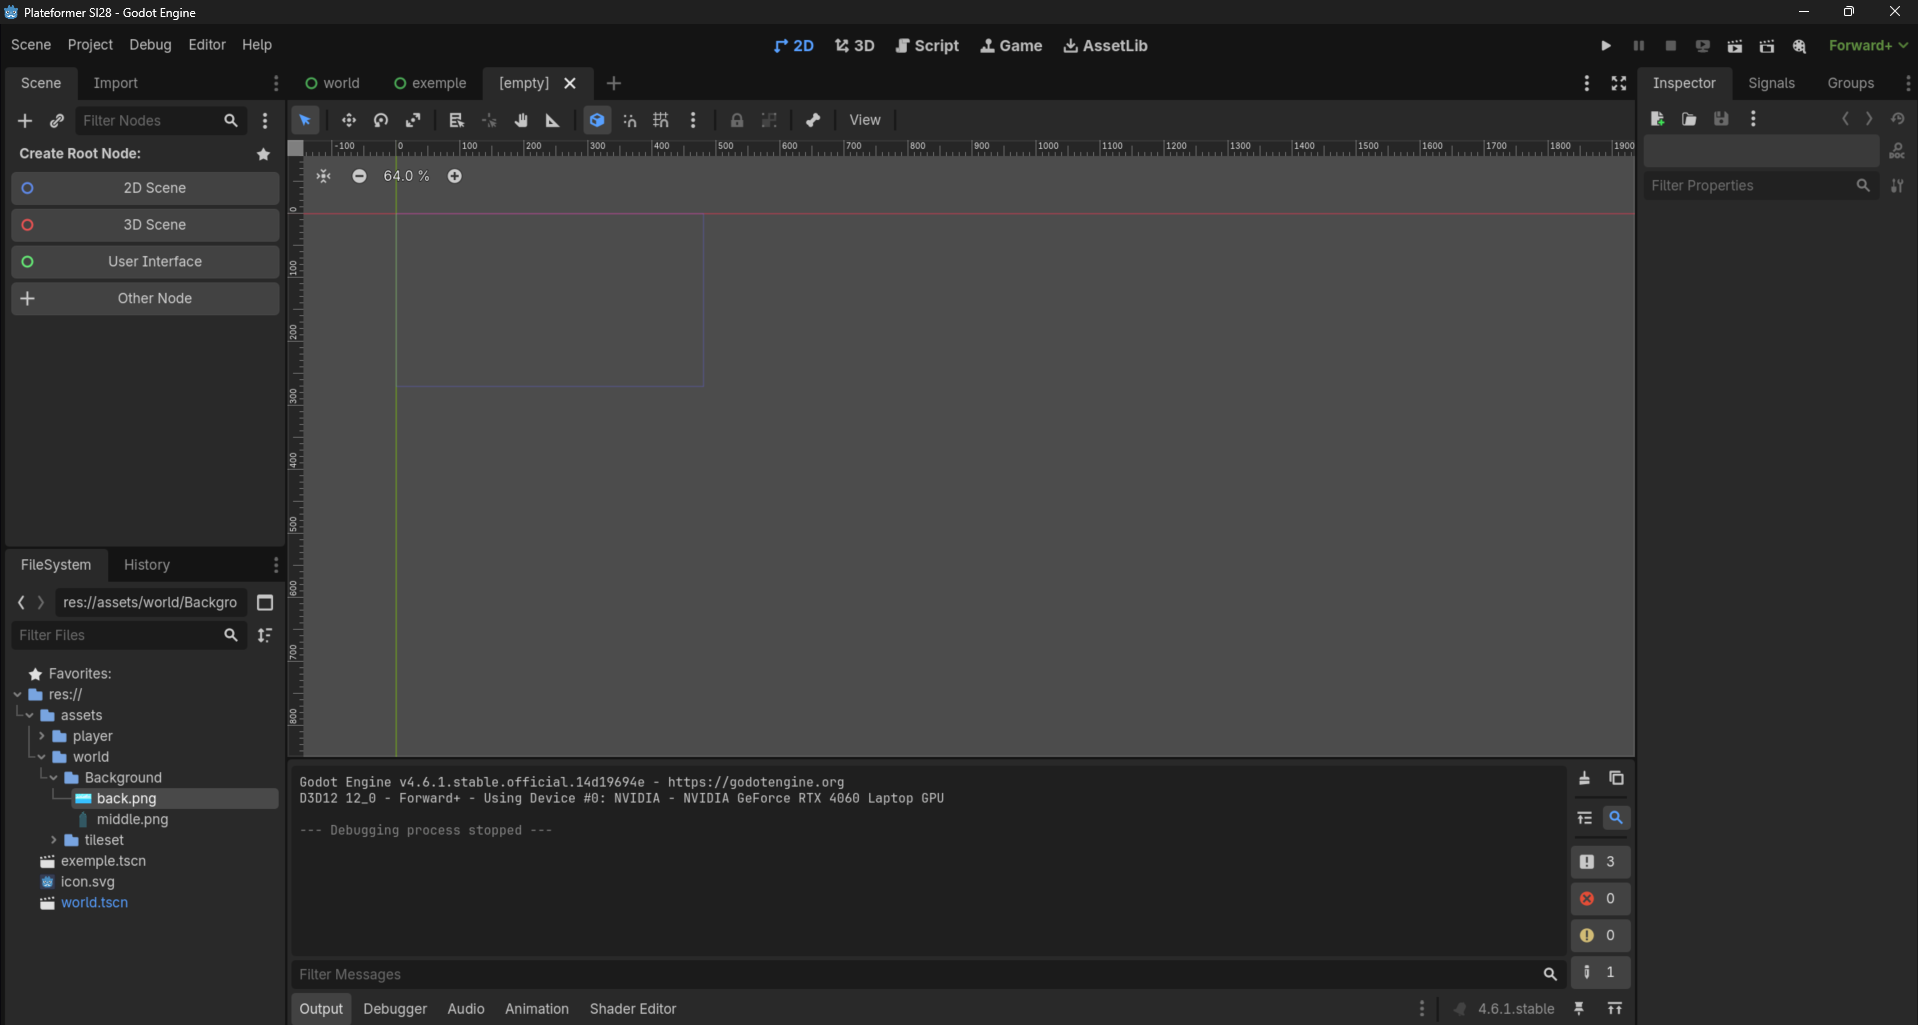
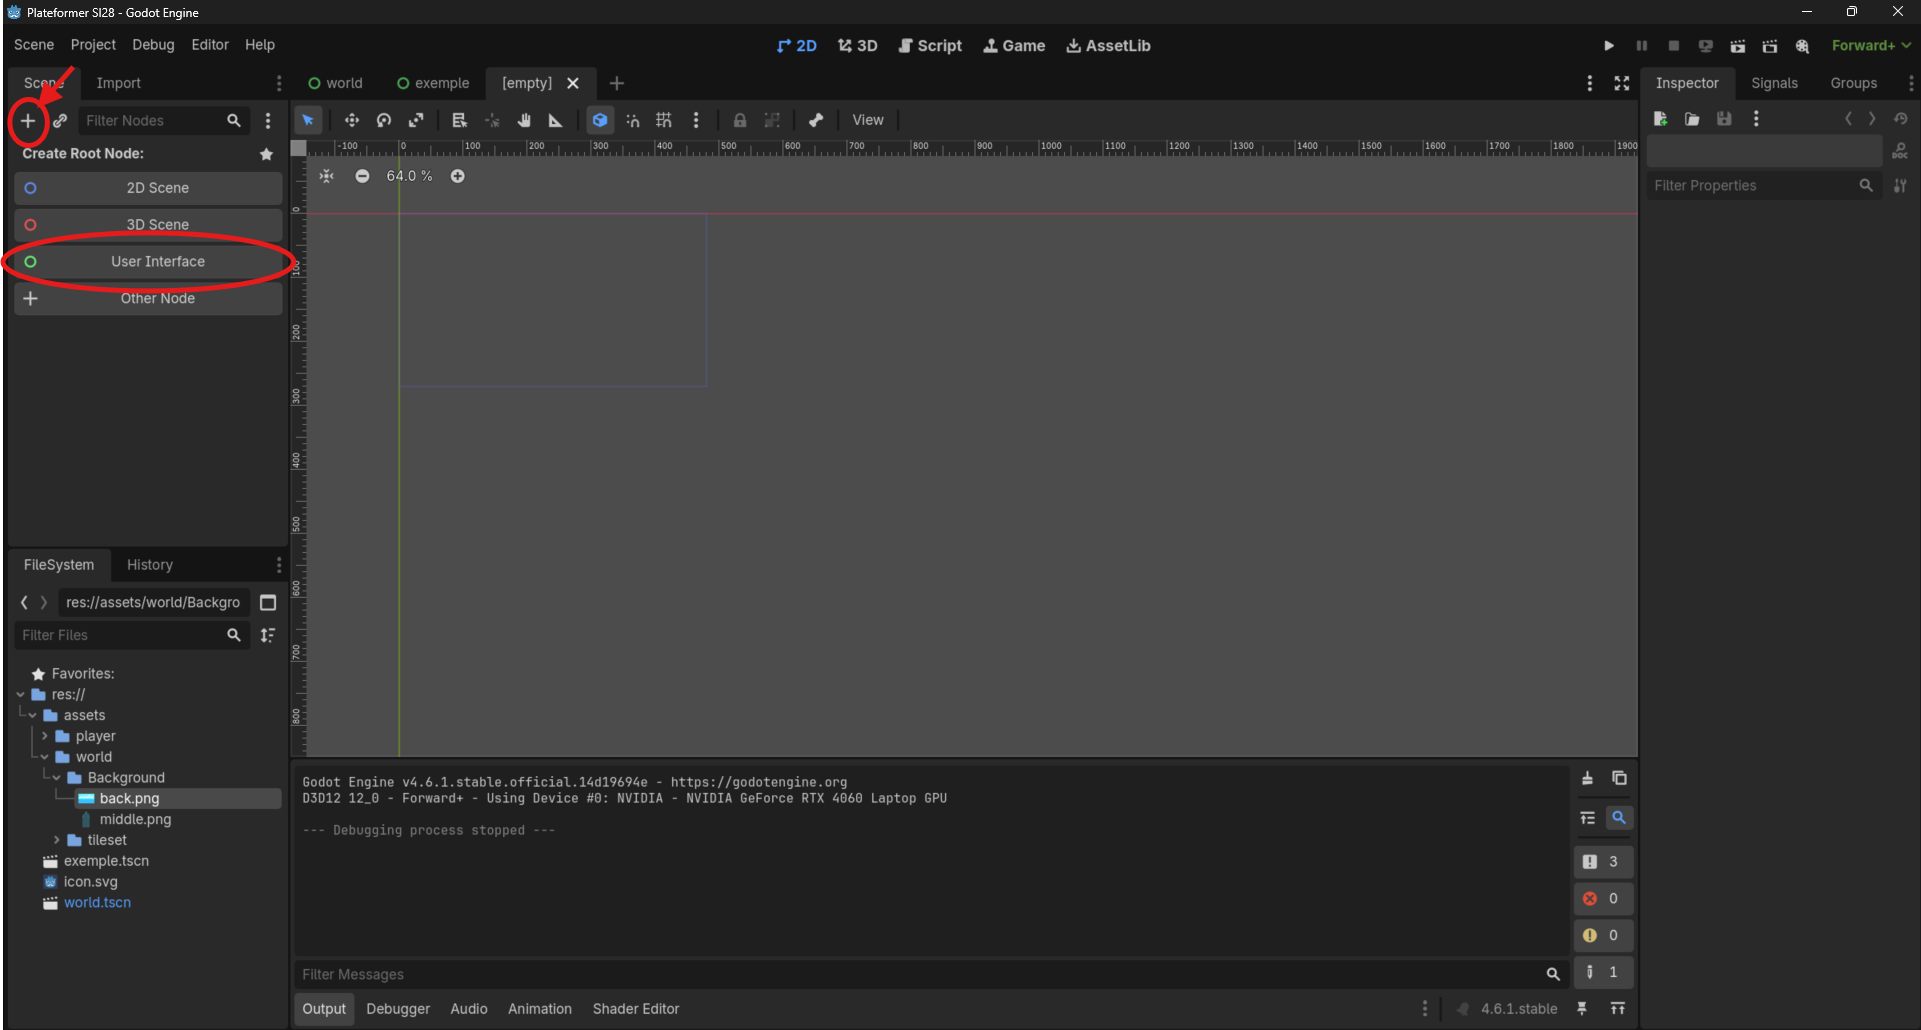
n
n

diff --git a/docs/creation-monde.rst b/docs/creation-monde.rst
@@ -13,6 +13,7 @@ Dans la résolution par défaut de Godot, notre joueur ferait cette taille :
 
 .. image::img/contreExempleResolution.png
 
+
 **Ce que vous conviendrait est un peu petit*.
 
 Pour changer la résolution dans Godot, il suffit d'aller la modifier dans les paramètres du projet. Vous pouvez donc cliquez en haut à gauche sur ``Project`` puis sur projet settings.
@@ -23,7 +24,18 @@ Vous allez voir une fenêtre qui ressemble à ça. Ne vous inquiétez pas, même
 Les paramètres de résolutions se situent dans l'onglet ``Window``.
 
 
+.. image::changerResolution1.png
 
+Dans l'onglet window modifier le viewport width à 480, le wiewport height à 270 (on aura donc une résolution 480 par 270 !) et e Mode à ``Fullscreen`` pour que le jeu s'ouvre automatiquement en pleine écran.
+
+.. image::changerResolution2.png
+
+La dernière petite option qu'on va modifier c'est le stretch mode qui va permettre à notre petit jeu de résolution 480 par 270 de recouvrir tout l'écran.
+Pour trouver le Stretch Mode, il suffit de descendre un peu plus bas dans l'onglet Window dans la partie ``Strech `` où on peut voir une option ``Mode``. On va choisir l'option ``Viewport``.
+
+.. image::changerResolution3.png
+
+Maintenant qu'on a mis en place tout cela, on peut quitter les paramètres du projet et 
 Pour ce faire, on va commencer par créer une nouvelle scène qui sera notre `Monde`.
 Cliquez sur **Scene -> New Scene** en haut à droite, ou sur le petit **+** en haut à côté de l'onglet de la scène ``player``, ou appuyez sur ``Ctrl+N``.
 Une nouvelle scène vierge devrait s'ouvir:
@@ -36,7 +48,10 @@ Une nouvelle scène vierge devrait s'ouvir:
 Ici, nous allons créer un ``Control Node``, c'est un type de Node qui permet de gérer la disposition de ses enfants sur l'écran. Pour ça, appuyez à nouveau sur le **+** et rechercher la node ``Control`` ou plus directement sur le boutton  ``User Interface`` dans la hiérarchie (en haut à gauche).
 Vous pouvez renommer ce noeud en ``"World"``, et lui ajouter deux noeuds ``TextureRect`` en enfant.
 
-Pour chacun d'entre eux, vous allez cliquer en haut 
+Vous pouvez cliquer sur chacun d'entre eux pour afficher leur propriété dans l'inspecteur à gauche. Nous allons ajouter dans leur propriété ``Texture`` les images disponibles dans Backround, respectivement ``back.png`` and ``middle.png``. 
+Vous pouvez les ``load`` en cliquant sur la petite flèche à côté de la propriété texture ou bien directement les glisser depuis les dossiers en bas à gauche.
+
+.. image:: img/loadTexture.png
 
 .. warning::
   Depuis la version 4.3 de Godot, le nœud ``TileMap``, qui était jusque là utilisé, n'est plus d'actualité!
@@ -68,15 +83,9 @@ Cliquez sur l'onglet **TileSet**:
 
 Appuyez sur le bouton **+** **[1]**, cliquez sur **Atlas**, puis séléctionnez le fichier ``assets/tilemap/Tilemap_Flat.png``.
 Godot va alors vous demander si vous voulez créer automatiquement des tiles dans l'Atlas.
-Séléctionnez oui, et vous verrez une grille découper l'image en blocs de 16px par 16px.
+Séléctionnez oui, et vous verrez une grille découper l'image en blocs de 16px par 16px, ce qui est parfait pour nos cases à nous (mais il faudrait changer )
 Cependant, nous voulons des cases de 32px par 32px (la taille dépend de votre tileset, mais celui-ci a été dessiné pour des casses de 32*32).
 
-.. image:: img/tilesetGridUncorrectSize.png
-
-Pour régler ce problème, il faut changer la taille des `tiles`, les changeant de ``16px`` à ``32px``,
-à la fois dans le ``TileMapLayer`` **[1]** et dans le ``TileSet`` **[2]**
-
-.. image:: img/tilesetTilesSizeChange.png
 
 Maintenant que vous avez créé votre tileset, vous pouvez aller dans l'onglet **TileMap**, pour "peindre" le monde.
 Pour cela, il suffit de cliquer sur le bloc que vous voulez placer, et "peindre" votre monde dans l'éditeur.
